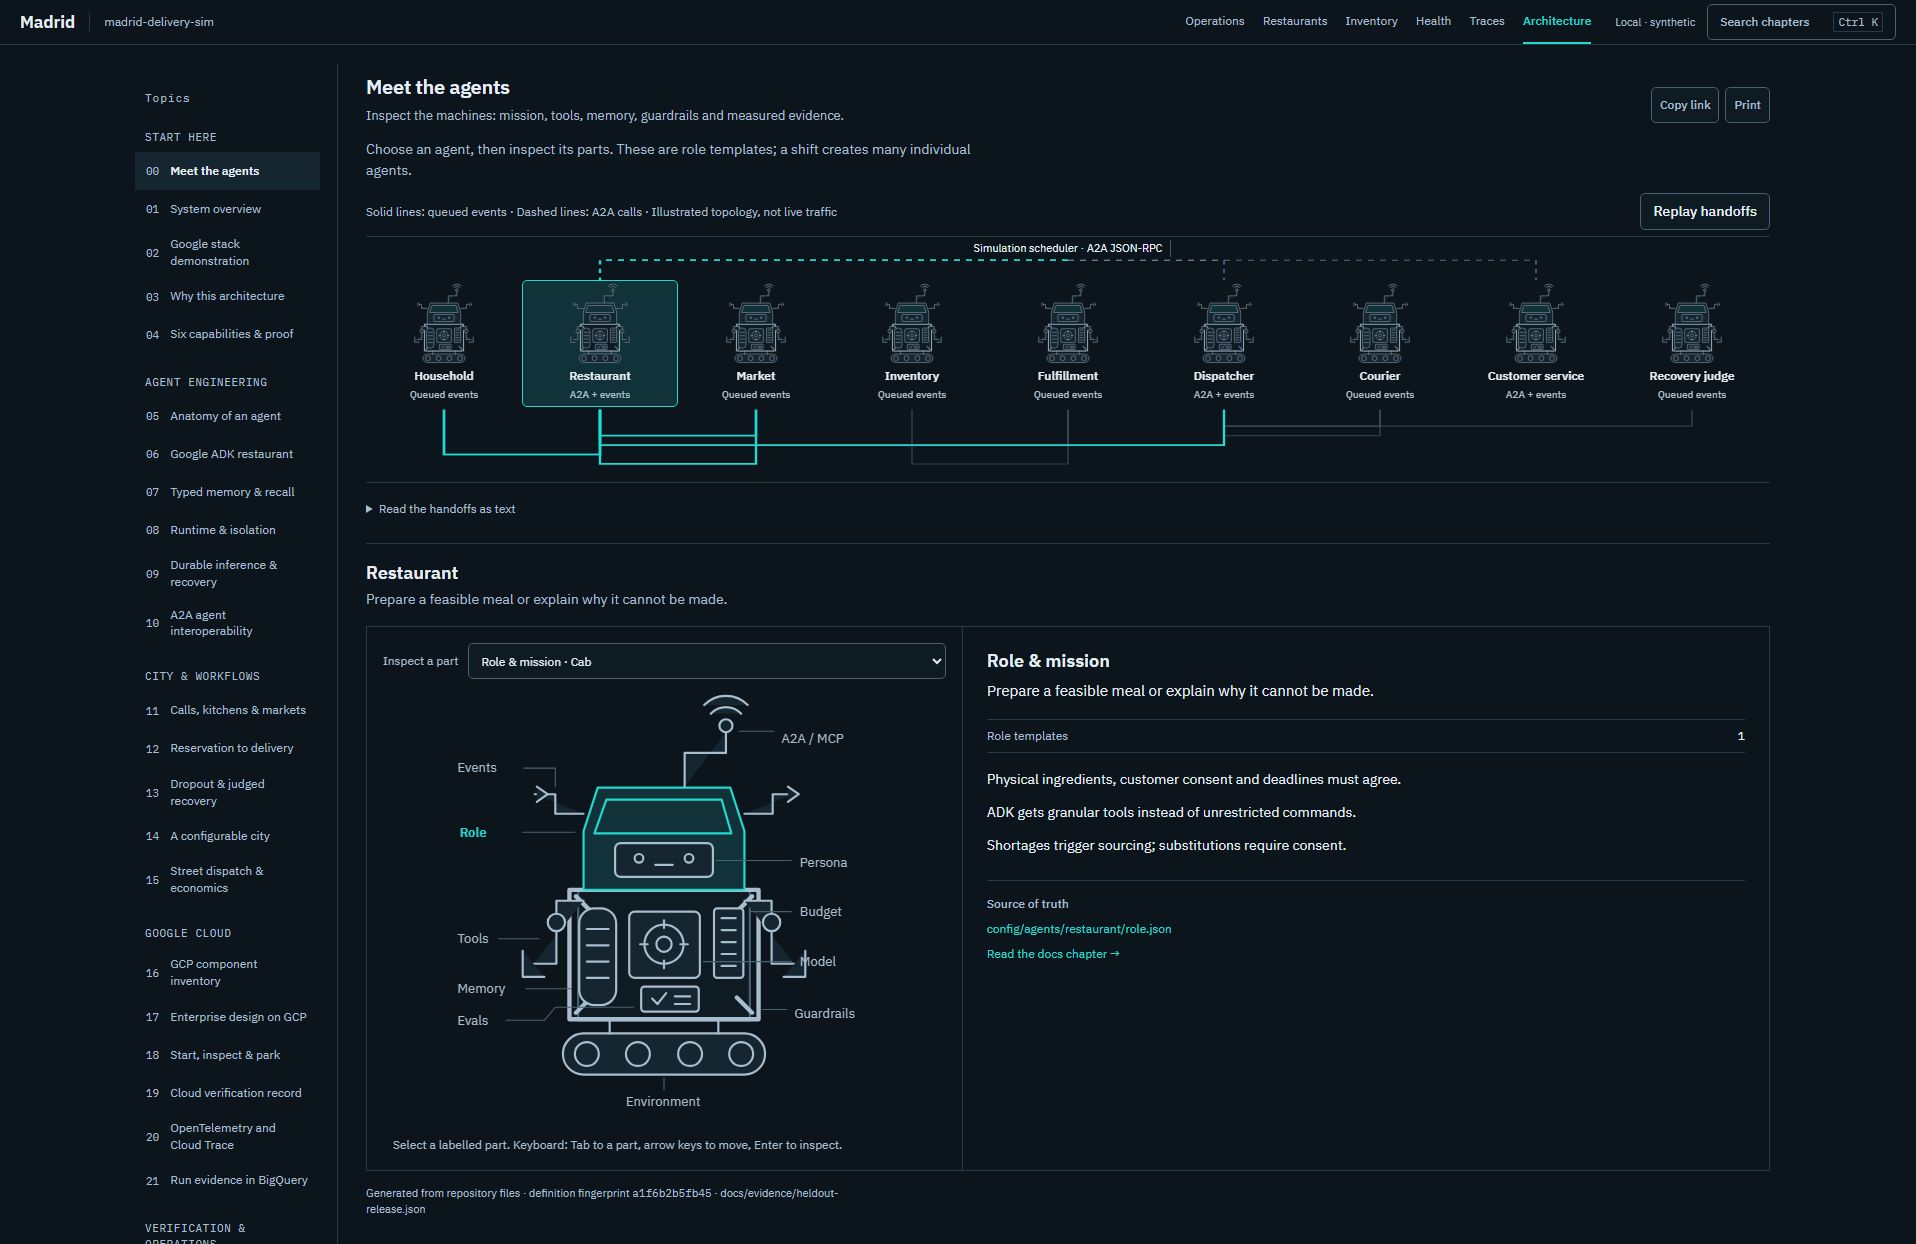
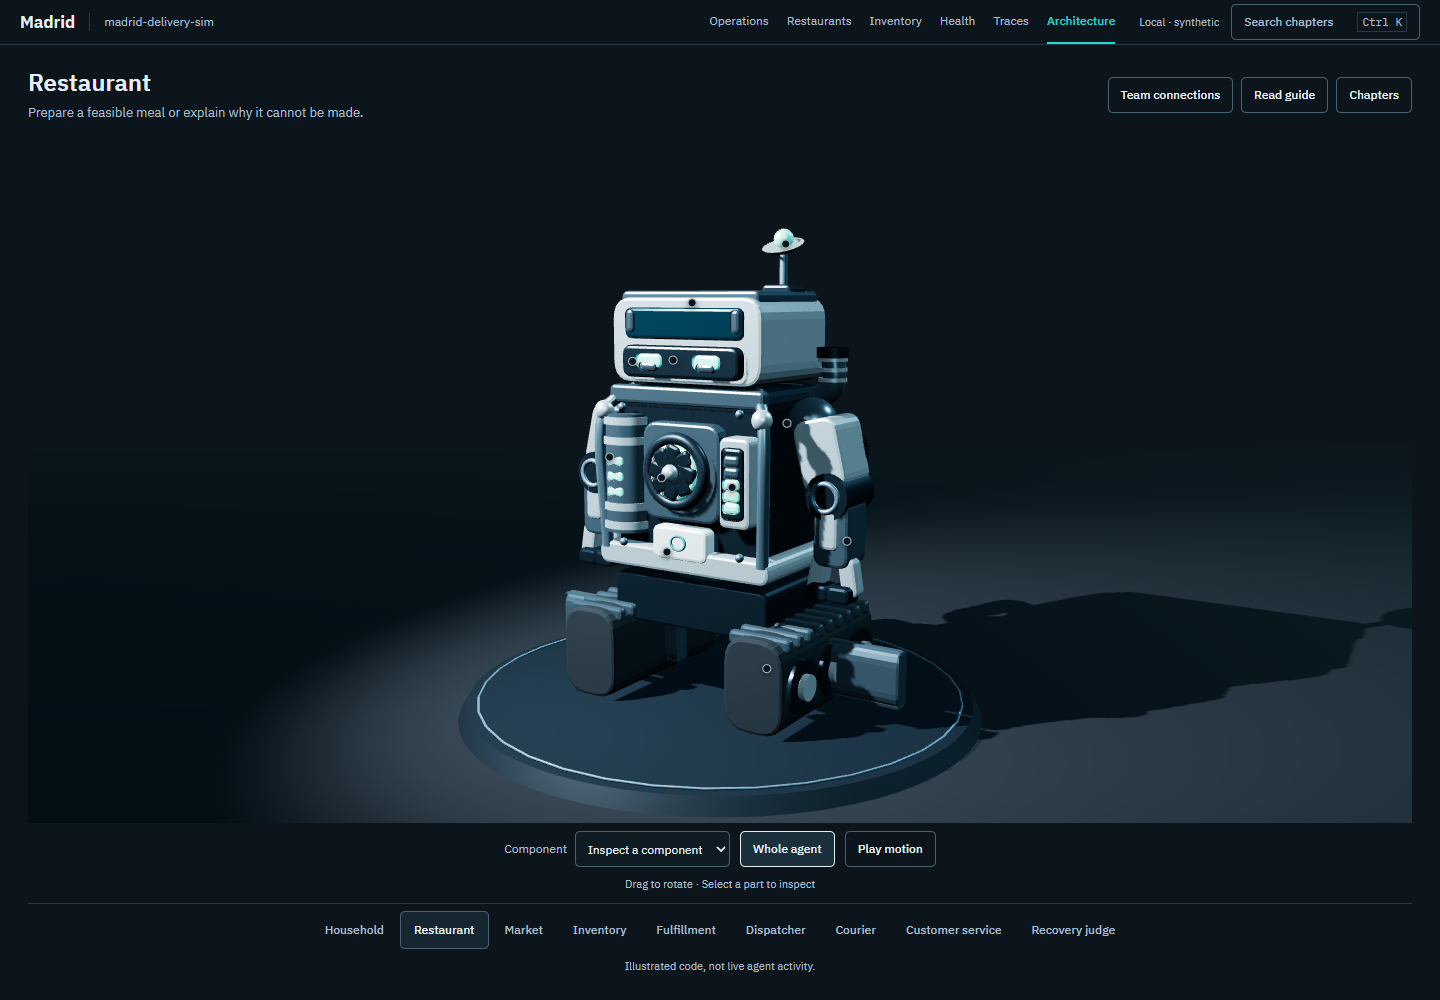
Document and review the focused agent showcase

diff --git a/.impeccable/surfaces/agent-anatomy.md b/.impeccable/surfaces/agent-anatomy.md
@@ -2,22 +2,105 @@
 version: 1
 slug: agent-anatomy
 primary_target: web/agent-anatomy.js
-related_targets: [web/agent-anatomy.css, web/documentation.html]
+related_targets: [web/agent-anatomy.css, web/agent-anatomy-3d.js, web/documentation.js, web/documentation.html, docs/AGENT-ANATOMY.md]
 ---
 
 # Agent anatomy
+Mode: Experience with source-backed reading on demand. User direction: a Dota-style
+character/skin inspection, less text, genuine 3D depth, animation as protagonist.
+The existing graphite/Plex/cyan system remains authoritative outside this surface.
+No permissions, role facts, model decisions or evidence are authored in the renderer.
 
-Mode: Read. Audience: hiring managers and clients seeking a short explanation of
-each agent, followed by source-backed engineering evidence. The user specified
-SVG machines with eleven selectable parts and a connected team view. This is a
-code-led extension of the established graphite/Plex/cyan system, not a new identity.
+## Direction contract
+THESIS: Meet one agent as a tangible machine and discover its code through parts,
+instead of reading an expanded documentation dashboard.
 
-THESIS: Understand an agent by inspecting the parts that give it bounded behavior.
-FIRST VIEWPORT: Compact chapter title, all nine role machines in a horizontally
-scrollable team, then the selected agent's machine beside an explanation panel.
-SIGNATURE INTERACTION: Selecting a physical machine part exposes its real manifest,
-runtime defaults or dated evidence. Replay briefly animates the relevant handoffs.
-CONSTRAINTS: No paid calls, no invented metrics, no unrelated workspace restyling.
-Desktop retains the machine and inspector together. Mobile stacks them, provides
-a native selector, and keeps the team in its own scroll region. Reduced motion
-disables animated connections. Links open the existing source reader or chapter.
+OWN-WORLD: The established graphite stage and Plex controls recede behind a
+beveled, articulated industrial robot with pale alloy, dark joints, cyan selection,
+directional studio light and grounded shadows. No new brand, headline or paid assets.
+
+STORY: Choose a role, orbit the machine, select a physical component, read a short
+explanation, then open exact manifest facts and sources when wanted. Team handoffs
+remain an optional, explicitly illustrative view.
+
+FIRST VIEWPORT: A compact identity/controls row, a large perspective 3D stage occupying
+most of the viewport, eleven quiet component hotspots and a compact role strip.
+No inspector until selection. Selection focuses the part and reveals a narrow
+inspector; mobile keeps the model above it. Chapters and long guide text are collapsed.
+
+FORM: User-pinned character inspection, implemented code-first in the existing
+local Three.js runtime; the actual interactive model is the visual asset.
+No concept roll: this is the specified replacement of one existing component.
+Signature interaction: physical part highlight, camera focus and one short explanation.
+
+FINISH: unreviewed and undocumented is unfinished; this build ends with the finish review, the verdict, DESIGN.md, and every shipping raster carrying its provenance
+
+Constraints: all 99 panels retain source-backed facts; native selectors and SVG
+fallback preserve access without graphics. Reduced motion removes idle motion and
+camera tweening; pause and reset are explicit. Hidden views stop rendering.
+
+## Shipped behavior — 2026-11-02
+
+This local replacement preserves the existing design system. DESIGN.md and
+.impeccable/design.json remain authoritative and unchanged. The rendered model's
+materials and lighting are local to this experience, not new rules for ordinary
+operation panels.
+
+- **Initial view:** a 24px Plex role title (22px on mobile), one short mission and
+  the dominant model. Inspector, guide and chapter navigation start closed.
+  Eleven physical parts map to eleven source-backed panels for each of nine roles.
+- **Inspect:** part clicks, hotspots, the native selector and keyboard activation
+  highlight the geometry and focus the camera. Other hotspot dots recede during
+  selection. The inspector shows the summary and first two values; **Details &
+  source** discloses remaining values, policy, evidence and sources. **Whole
+  agent** restores the full model. Closing returns focus to the trigger.
+- **Depth:** beveled meshes, pale alloy, dark articulated joints, cyan illumination,
+  perspective, a lit floor and cast shadows supply the physical character.
+  Controls and evidence panels retain shared flat surfaces and fine rules.
+  The machine is explicitly an illustration of code, not live activity.
+- **Layout:** stage height is clamped between 360px and 800px around 100svh minus
+  310px. Selection adds a 320px inspector, reduced to 280px at 1000px and below.
+  At 700px and below, the 420px model stays above the inspector and the role
+  strip scrolls horizontally. Focused inspection deliberately crops the whole
+  body while keeping the selected component visible. Long evidence scrolls locally.
+- **Motion:** idle articulation and slow orbit use a 30fps maximum and pixel ratio
+  capped at 1.5. After 45 frames, mean render time above 35ms switches to 15fps
+  and pixel ratio 1. **Pause motion** stops idle movement. Reduced motion also
+  removes camera tweening and handoff animation. Hidden and offscreen views skip
+  rendering; leaving the chapter disposes the scene.
+- **Access and recovery:** visible focus, component arrow navigation, Enter/Space
+  activation, canvas arrow orbit and plus/minus zoom accompany the native
+  selector. Wheel scrolling stays native. WebGL failure or context loss switches
+  to the labelled interactive SVG with the same panels. Definition-load failure
+  exposes **Retry agent definitions**.
+- **Optional reading:** **Team connections** illustrates permitted manifest
+  handoffs, with a text equivalent and finite replay. **Read guide** reveals the
+  chapter; **Chapters** reveals navigation.
+
+## Finish evidence
+
+FINISH documentation is complete for this surface. The fresh
+[finish review](../review/agent-showcase-finish.md) records **SHIP**, with
+Persistence, Fidelity, Ceiling, Material fixes and Keep sections and no material
+fixes. No QUALITY BAR card or critique comp was supplied, so a separate
+reference-card ceiling was not assessed. The precisely specified local request
+uses new-work's concept-roll exemption.
+
+The documenter checked the implementation, guide, PRODUCT.md, DESIGN.md and its
+sidecar, sampled browser-contract assertions, and inspected the desktop overview,
+mobile memory and SVG fallback captures. The review covers overview and selected
+memory at 1440×1000, 1280×800, 390×844, 1265×712 and 1916×1244, plus fallback.
+All eleven showcase PNGs in ../review have embedded impeccable:prompt origin
+metadata. The mobile memory image is a 390×1109 full-page capture from the
+390×844 viewport, preserving the stacked inspector.
+
+The build handoff reports browser contracts passing for all 99 panels across
+nine roles, 30 targeted Python tests passing, and an observed renderer workload
+of 99 draw calls and 67,018 triangles. This documentation pass did not rerun
+those checks or a browser; these are build verification results, not new
+measurements.
+
+The existing global design documents remain unchanged. Pre-existing provenance
+gaps in unrelated review captures, the sidecar's older Bakiano display title,
+and PRODUCT.md's older worktree instruction were reported without repair or
+promotion into new design rules.

diff --git a/.impeccable/review/agent-showcase-finish.md b/.impeccable/review/agent-showcase-finish.md
@@ -1,0 +1,39 @@
+# Agent showcase finish review
+
+Reviewer disposition: **ship**. Fresh review, 2026-11-02.
+
+Missing inputs: no QUALITY BAR card or critique-reference comp was supplied. No approved comp is expected for this code-led local replacement. Documentation files were sampled rather than read end-to-end.
+
+## Persistence
+
+Pass. PRODUCT.md, DESIGN.md and the surface contract exist. The established graphite, cyan and Plex identity remains intact. FORM's omitted concept roll follows new-work.md's exemption: "Never run the script for a local extension or a precisely specified narrow request; shape those directly."
+
+All eleven required captures are valid: desktop 1440x1000, laptop 1280x800, mobile 390x844, actual user viewports 1265x712 and 1916x1244, overview and selected memory at each, plus SVG fallback.
+
+## Fidelity
+
+| Promise | Verdict | Evidence |
+| --- | --- | --- |
+| Type | Match | Compact Plex titles and controls; no display headline. |
+| Material | Match | Articulated geometry, bevels, dimensional joints, lighting and cast shadows. |
+| Ground | Match | Established graphite stage with a rendered illuminated floor. |
+| Thesis | Match | Machine dominates; documentation appears through selected parts. |
+| Own-world | Match | Pale alloy, dark joints and cyan selection. |
+| Story | Match | Role selection, orbiting, physical selection and concise explanations lead to details and sources. |
+| First viewport | Match | Large model, quiet hotspots, compact controls and role strip; reading closed initially. |
+| Form | Match | Procedural Three.js model; highlighting and camera focus implement the signature interaction. |
+| Focused cropping | Adaptation | Deliberate focused inspection; selected memory canister remains identifiable at every size. |
+| Mobile inspector | Adaptation | Stacks below the model, readable without horizontal overflow. |
+| Truth and access | Match | Illustration labeled; source facts separate from geometry. Checks cover 99 panels, keyboard, reduced motion, pause, retry and SVG fallback. |
+
+## Ceiling
+
+Reached against the supplied local direction. Physical depth, grounded presentation, articulation and focused inspection are present. No unused device is a material omission. A separate reference-card ceiling could not be assessed because none was supplied.
+
+## Material fixes
+
+None. Detector advisories do not identify a visible shipping defect.
+
+## Keep
+
+Preserve the dominant physical model, quiet initial state, focused part highlighting and progressive access to source-backed explanations.

diff --git a/docs/AGENT-ANATOMY.md b/docs/AGENT-ANATOMY.md
@@ -1,11 +1,23 @@
 # Agent anatomy
 
-The team above is the quickest way to understand the system. Select a machine,
-then its cab, arms, engine or another labelled part. Every panel explains the
-selected role, shows the actual defaults or dated measurements, and links to its
-source. Keyboard users can Tab through the controls, move between SVG parts with
-arrow keys, and activate with Enter or Space. A standard part selector offers the
-same information on a phone or with assistive technology.
+Choose a role, rotate its 3D machine, and select a physical component. The camera
+focuses on that part and reveals one short explanation with two source-backed
+numbers. **Details & source** opens the full policy, limits, evidence and source
+links. **Whole agent** restores the full machine; **Team connections** shows the
+permitted handoffs. **Read guide** opens this chapter and **Chapters** opens navigation.
+
+The robot is an illustration of code, not a live actor or activity meter. Its
+cab, tank, engine, arms and other parts map to the same manifest-backed panels.
+The local Three.js renderer uses authored geometry, studio lighting and shadows;
+there are no external models or network asset requests. **Pause motion** stops
+the idle animation. Reduced motion also removes camera tweening. Hidden views
+stop rendering, and leaving the chapter disposes the scene.
+
+Keyboard users can Tab through component controls, use arrows between them,
+and activate with Enter or Space. On the focused 3D canvas, arrows rotate and
+plus/minus zoom. A native component selector provides the same information.
+If WebGL is unavailable or loses its context, the labelled SVG machine remains
+fully usable. On a phone, the model stays above the selected component's details.
 
 ## What is technically hard
 

diff --git a/README.md b/README.md
@@ -5,7 +5,7 @@ Queue-driven delivery agents on Madrid streets, with Google ADK, real A2A endpoi
 **[Meet the agents — interactive anatomy](http://localhost:8010/architecture)** ·
 [Read the same guide in the repository](docs/AGENT-ANATOMY.md)
 
-[![Agent team and interactive machine anatomy](docs/media/agent-anatomy.png)](http://localhost:8010/architecture)
+[![Interactive 3D agent anatomy](docs/media/agent-anatomy.png)](http://localhost:8010/architecture)
 
 ## 60 second tour
 
